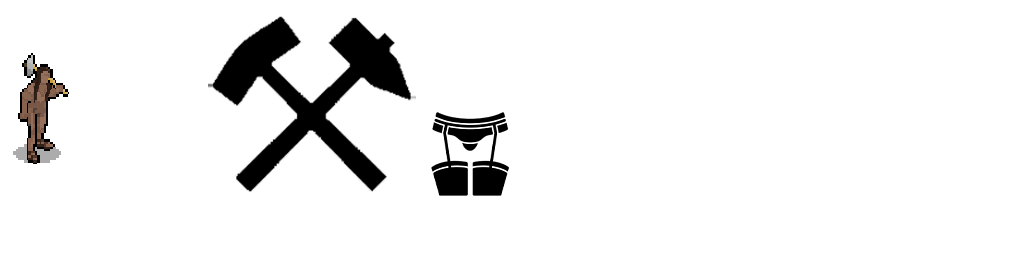
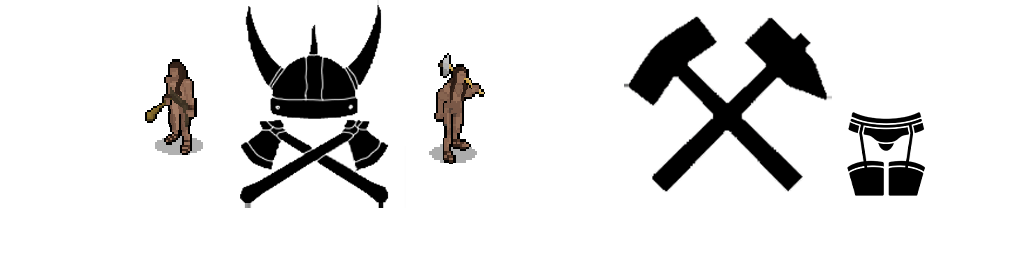
v0.22
Nudist Warrior Completed

diff --git a/credits.md b/credits.md
@@ -1,3 +1,13 @@
+1. UnCiv Development Team:
+	- Awesome desktopp/mobile game
+	- Beautiful Modding capabilities
 
-Nation Icon from the following:
-* https://www.flaticon.com/free-icons/lingerie
+2. Icon Artists: 
+	- Unit Icons: UnCiv Team
+	- Nation Icon: https://www.flaticon.com/
+	- Icons in banner: https://www.flaticon.com/
+
+1. JSON Handling: DeicideFelidae
+2. Simple AbsoluteUnits Nude Conversions: DeicideFelidae
+3. Banner Background: MidJourney
+4. UnCiv Logo Parody: DeicideFelidae

diff --git a/README.md b/README.md
@@ -31,8 +31,8 @@ Make sure you use the following graphic settings for the game for the best exper
 - UnitSet: Absolute Units
 
 ## Mod Features: (This shows the planned content, I've labelled whats done and what is in progress.)
-- New Civilisation: Nymphomanic Empire: [IN PROGRESS]
-    - Unique Textures for default units
+- New Civilisation: Nymphomanic Empire: [DONE]
+    - Unique Textures for default units [IN-PROGRESS]
     - Unique Buildings:
         - Brothel
         - Strip Club
